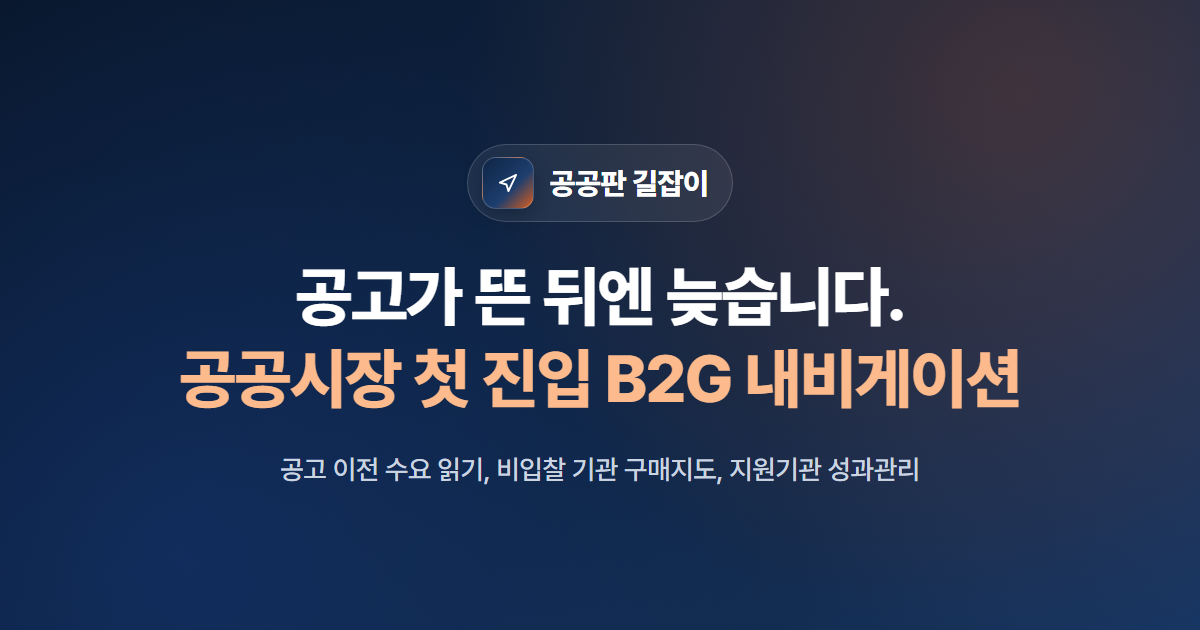
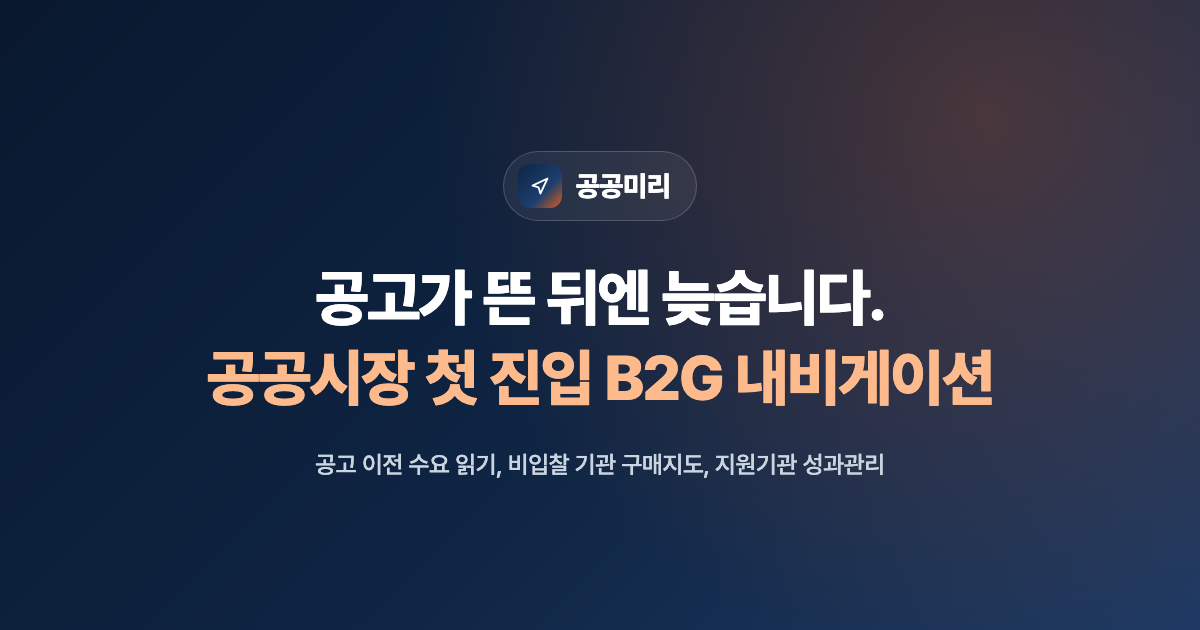
chore: rebrand to 공공미리, anonymize competitor name, and update og-image

Changed region(s): [[0.0308, 0.4222, 0.8633, 1.0], [0.4008, 0.2413, 0.6167, 0.3619], [0.4625, 0.2111, 0.555, 0.2413]]

diff --git a/index.html b/index.html
@@ -3,26 +3,26 @@
 <head>
   <meta charset="UTF-8" />
   <meta name="viewport" content="width=device-width, initial-scale=1.0" />
-  <title>공공판 길잡이 — 공공시장 첫 진입 중소기업을 위한 B2G 내비게이션</title>
-  <meta name="description" content="공고 이전 수요 읽기(발주계획·사전규격), 비입찰 경로(수의계약·시범구매) 기관 구매지도, 기업지원기관 단계·성과 관리까지 연결하는 B2G 시장진입 내비게이션, 공공판 길잡이(가칭)" />
-  <meta name="keywords" content="공공판 길잡이, B2G, 공공조달, 공공시장 진입, 발주계획, 사전규격, 기관 구매지도, 수의계약, 혁신제품 시범구매, 중소기업 판로지원, 테크노파크, 창업보육센터" />
+  <title>공공미리 — 공공시장 첫 진입 중소기업을 위한 B2G 내비게이션</title>
+  <meta name="description" content="공고 이전 수요 읽기(발주계획·사전규격), 비입찰 경로(수의계약·시범구매) 기관 구매지도, 기업지원기관 단계·성과 관리까지 연결하는 B2G 시장진입 내비게이션, 공공미리(가칭)" />
+  <meta name="keywords" content="공공미리, B2G, 공공조달, 공공시장 진입, 발주계획, 사전규격, 기관 구매지도, 수의계약, 혁신제품 시범구매, 중소기업 판로지원, 테크노파크, 창업보육센터" />
   <meta name="robots" content="index, follow" />
-  <meta name="author" content="공공판 길잡이" />
+  <meta name="author" content="공공미리" />
   <meta name="theme-color" content="#0F2544" />
   <link rel="canonical" href="https://jaymunsh.github.io/modoo-demo/" />
   <link rel="icon" type="image/svg+xml" href="./assets/favicon.svg" />
   <meta property="og:type" content="website" />
   <meta property="og:locale" content="ko_KR" />
-  <meta property="og:site_name" content="공공판 길잡이" />
+  <meta property="og:site_name" content="공공미리" />
   <meta property="og:url" content="https://jaymunsh.github.io/modoo-demo/" />
-  <meta property="og:title" content="공공판 길잡이 — 공공시장 첫 진입 중소기업을 위한 B2G 내비게이션" />
+  <meta property="og:title" content="공공미리 — 공공시장 첫 진입 중소기업을 위한 B2G 내비게이션" />
   <meta property="og:description" content="공고가 뜬 뒤엔 늦습니다. 공고 이전 수요 읽기, 비입찰 기관 구매지도, 지원기관 성과관리까지." />
   <meta property="og:image" content="https://jaymunsh.github.io/modoo-demo/assets/og-image.png" />
   <meta property="og:image:width" content="1200" />
   <meta property="og:image:height" content="630" />
-  <meta property="og:image:alt" content="공공판 길잡이 — 공공시장 첫 진입 B2G 내비게이션" />
+  <meta property="og:image:alt" content="공공미리 — 공공시장 첫 진입 B2G 내비게이션" />
   <meta name="twitter:card" content="summary_large_image" />
-  <meta name="twitter:title" content="공공판 길잡이 — B2G 시장진입 내비게이션" />
+  <meta name="twitter:title" content="공공미리 — B2G 시장진입 내비게이션" />
   <meta name="twitter:description" content="공고 이전 수요 읽기, 비입찰 기관 구매지도, 기업지원기관 연계형 B2G 플랫폼" />
   <meta name="twitter:image" content="https://jaymunsh.github.io/modoo-demo/assets/og-image.png" />
   <link rel="stylesheet" href="./css/style.css" />
@@ -30,7 +30,7 @@
   {
     "@context": "https://schema.org",
     "@type": "SoftwareApplication",
-    "name": "공공판 길잡이",
+    "name": "공공미리",
     "url": "https://jaymunsh.github.io/modoo-demo/",
     "applicationCategory": "BusinessApplication",
     "operatingSystem": "Web",
@@ -54,7 +54,7 @@
         "name": "조달청 「공공조달 길잡이」와는 무엇이 다른가요?",
         "acceptedAnswer": {
           "@type": "Answer",
-          "text": "조달청 공공조달 길잡이는 1:1 제도 상담 중심인 반면, 공공판 길잡이는 공고 이전 수요(발주계획·사전규격) 포착, 기관 구매지도, 2주·1개월·3개월 행동 리포트, 지원기관의 소속 기업 단계·성과 관리까지 이어지는 실행형 도구입니다."
+          "text": "조달청 공공조달 길잡이는 1:1 제도 상담 중심인 반면, 공공미리는 공고 이전 수요(발주계획·사전규격) 포착, 기관 구매지도, 2주·1개월·3개월 행동 리포트, 지원기관의 소속 기업 단계·성과 관리까지 이어지는 실행형 도구입니다."
         }
       },
       {
@@ -81,13 +81,13 @@
   <!-- Sticky Header -->
   <header class="site-header">
     <div class="wrap header-inner">
-      <a href="./index.html" class="brand" aria-label="공공판 길잡이 홈">
+      <a href="./index.html" class="brand" aria-label="공공미리 홈">
         <span class="brand-mark" aria-hidden="true">
           <svg width="17" height="17" viewBox="0 0 24 24" fill="none" stroke="currentColor" stroke-width="1.65" stroke-linecap="round" stroke-linejoin="round">
             <path d="M4.5 11.6L19.5 4.5L12.4 19.5L10.6 13.4L4.5 11.6Z"></path>
           </svg>
         </span>
-        <span>공공판 길잡이</span>
+        <span>공공미리</span>
         <span class="brand-sub">MVP</span>
       </a>
 
@@ -180,7 +180,7 @@
       </div>
 
       <!-- Live Product UI Preview -->
-      <div class="hero-preview" aria-label="공공판 길잡이 서비스 미리보기">
+      <div class="hero-preview" aria-label="공공미리 서비스 미리보기">
         <div class="preview-topbar">
           <div class="preview-dots"><i></i><i></i><i></i></div>
           <span>기업용 워크스페이스 예시</span>
@@ -268,7 +268,7 @@
       <div class="timeline-card">
         <div class="zone-bars">
           <div class="zone-bar pre">
-            <span>공공판 길잡이 집중 구간: 규격·예산이 정해지기 전 ‘누구에게·언제·무엇을’ 준비</span>
+            <span>공공미리 집중 구간: 규격·예산이 정해지기 전 ‘누구에게·언제·무엇을’ 준비</span>
             <span class="num" style="opacity:.9;font-size:12.5px;">발주계획 85.6조원(2026)</span>
           </div>
           <div class="zone-bar post">
@@ -537,7 +537,7 @@
       <div class="sec-head">
         <div class="eyebrow eyebrow-blue">Scenario</div>
         <h2 class="sec-title">충남의 환경센서 제조기업이라면,<br />이렇게 첫 공공매출로 연결됩니다</h2>
-        <p class="sec-lead">공공영업 전담인력이 없는 중소기업도 길잡이의 순서대로 움직이면 첫 기관 미팅과 구매상담회 연계까지 도달할 수 있습니다. (설명용 가상 시나리오)</p>
+        <p class="sec-lead">공공영업 전담인력이 없는 중소기업도 공공미리의 순서대로 움직이면 첫 기관 미팅과 구매상담회 연계까지 도달할 수 있습니다. (설명용 가상 시나리오)</p>
       </div>
 
       <div class="scenario-grid">
@@ -572,7 +572,7 @@
         <div class="eyebrow">Differentiation</div>
         <h2 class="sec-title">기존 입찰알림·AI 서류 대행과는<br />출발선과 역할이 다릅니다</h2>
         <p class="sec-lead">
-          공고 이후 서류 작성은 제휴로도 풀 수 있습니다. 공공판 길잡이는 <strong>공고 이전·비입찰 경로·기업 역량화·지원기관 성과관리</strong>라는 비어 있는 구간에 집중합니다.
+          공고 이후 서류 작성은 제휴로도 풀 수 있습니다. 공공미리는 <strong>공고 이전·비입찰 경로·기업 역량화·지원기관 성과관리</strong>라는 비어 있는 구간에 집중합니다.
         </p>
       </div>
 
@@ -584,8 +584,8 @@
                 <th>비교 축</th>
                 <th>입찰정보 알림</th>
                 <th>조달청 공공조달 길잡이</th>
-                <th>AI 공공기회 플랫폼<br /><span style="font-weight:500;font-size:12px;">(에이룸 등)</span></th>
-                <th class="col-hl">공공판 길잡이</th>
+                <th>AI 공공기회 플랫폼<br /><span style="font-weight:500;font-size:12px;">(서류 자동화형)</span></th>
+                <th class="col-hl">공공미리</th>
               </tr>
             </thead>
             <tbody>
@@ -642,15 +642,15 @@
             <circle cx="62" cy="172" r="9" fill="#2563EB" />
             <text x="62" y="196" text-anchor="middle" font-size="11.5" font-weight="700" fill="#1E3A8A">입찰정보 알림</text>
 
-            <!-- 에이룸 -->
+            <!-- AI 공공기회 플랫폼 -->
             <circle cx="122" cy="206" r="9" fill="#2563EB" />
-            <text x="122" y="228" text-anchor="middle" font-size="11.5" font-weight="700" fill="#1E3A8A">에이룸(AROOM)</text>
+            <text x="122" y="228" text-anchor="middle" font-size="11.5" font-weight="700" fill="#1E3A8A">AI 공공기회 플랫폼</text>
             <text x="122" y="241" text-anchor="middle" font-size="10" fill="#64748B">기회탐지·서류 자동화</text>
 
-            <!-- 공공판 길잡이 -->
+            <!-- 공공미리 -->
             <circle cx="268" cy="74" r="14" fill="#D95D1E" />
             <circle cx="268" cy="74" r="21" fill="#D95D1E" fill-opacity="0.16" />
-            <text x="268" y="111" text-anchor="middle" font-size="14" font-weight="800" fill="#D95D1E">공공판 길잡이</text>
+            <text x="268" y="111" text-anchor="middle" font-size="14" font-weight="800" fill="#D95D1E">공공미리</text>
           </svg>
           <p style="margin:8px 0 0;font-size:12.5px;color:var(--muted);">* 공개 안내 기준 사업자 정리. 서류 대행 영역은 제휴 병행 검토.</p>
         </div>
@@ -845,7 +845,7 @@
           </button>
           <div class="faq-a">
             조달청 공공조달 길잡이는 지방청 전담관이 신청 기업을 대상으로 제도 안내 중심의 1:1 상담을 제공합니다.
-            <strong>공공판 길잡이</strong>는 상담에 그치지 않고, 공고 이전 수요(발주계획·사전규격) 포착, 기관 내부 구매결정 경로 지도,
+            <strong>공공미리</strong>는 상담에 그치지 않고, 공고 이전 수요(발주계획·사전규격) 포착, 기관 내부 구매결정 경로 지도,
             2주·1개월·3개월 행동 리포트, 그리고 지원기관의 소속 기업별 단계·성과 관리까지 이어지는 실행형 도구입니다.
             (현재 명칭은 가칭이며 정식 출시 전 상표 검토를 거쳐 확정할 예정입니다.)
           </div>
@@ -914,7 +914,7 @@
             <span class="brand-mark" style="width:28px;height:28px;border-radius:8px;">
               <svg width="14" height="14" viewBox="0 0 24 24" fill="none" stroke="currentColor" stroke-width="1.75" stroke-linecap="round" stroke-linejoin="round"><path d="M4.5 11.6L19.5 4.5L12.4 19.5L10.6 13.4L4.5 11.6Z"></path></svg>
             </span>
-            <span>공공판 길잡이 <span style="font-size:13px;font-weight:500;color:var(--muted);">(가칭)</span></span>
+            <span>공공미리 <span style="font-size:13px;font-weight:500;color:var(--muted);">(가칭)</span></span>
           </div>
           <p style="margin:0;max-width:440px;">공공시장 첫 진입 중소기업을 위한 B2G 시장진입 내비게이션 · 2026년 2차 모두의 창업 프로젝트 (충남 / 멘토기관: 호서대학교)</p>
         </div>
@@ -928,12 +928,12 @@
       </div>
       <div style="display:flex;justify-content:space-between;gap:16px;flex-wrap:wrap;font-size:12.5px;">
         <span>근거 출처: 중소벤처기업부(2025 공공구매 실적), 조달청(2025 통계연보·2026 발주계획·OpenAPI), 국회예산정책처, 국가계약법 시행령 제26조</span>
-        <span>© 2026 공공판 길잡이 MVP Demo.</span>
+        <span>© 2026 공공미리 MVP Demo.</span>
       </div>
 
       <details class="sources-details">
         <summary>
-          <span>사업계획서 근거 자료 출처 전체 보기 (공식 보도자료·통계 21건)</span>
+          <span>사업계획서 근거 자료 출처 전체 보기 (공식 보도자료·통계 20건)</span>
           <span style="font-size:12px;color:var(--accent);">펼치기 ▾</span>
         </summary>
         <ol class="sources-list">
@@ -952,7 +952,6 @@
           <li><a href="https://chungnam.go.kr/sosNet/bbs/B0000357/view.do?nttId=2177294&amp;menuNo=2700008&amp;pageUnit=10&amp;pageIndex=1" target="_blank" rel="noopener noreferrer">충청남도, 「2026년 중소기업제품 공공구매 추진계획」</a></li>
           <li><a href="https://www.pps.go.kr/kor/bbs/list.do?key=01325" target="_blank" rel="noopener noreferrer">조달청, 공공조달 길잡이(지방청 전담관 1:1 상담)</a></li>
           <li><a href="https://www.korea.kr/news/policyNewsView.do?newsId=148970566" target="_blank" rel="noopener noreferrer">정책브리핑, 조달청 공공조달 길잡이 확대 운영</a></li>
-          <li><a href="https://thevc.kr/aroom/products" target="_blank" rel="noopener noreferrer">THE VC, 에이룸(AROOM) 제품 소개</a></li>
           <li><a href="https://www.yeongnam.com/web/view.php?key=20260916023019110" target="_blank" rel="noopener noreferrer">영남일보, 공공에이아이 「은퇴 시니어 노하우를 AI 스킬로」</a></li>
           <li><a href="https://www.data.go.kr/data/15129462/openapi.do" target="_blank" rel="noopener noreferrer">공공데이터포털, 조달청 발주계획현황서비스 OpenAPI</a></li>
           <li><a href="http://www.law.go.kr/LSW/lsLawLinkInfo.do?lsJoLnkSeq=900369532&amp;chrClsCd=010202" target="_blank" rel="noopener noreferrer">국가법령정보센터, 국가계약법 시행령 제26조(수의계약)</a></li>

diff --git a/radar.html b/radar.html
@@ -3,25 +3,25 @@
 <head>
   <meta charset="UTF-8" />
   <meta name="viewport" content="width=device-width, initial-scale=1.0" />
-  <title>수요 레이더 &amp; 기관 구매지도 — 공공판 길잡이</title>
+  <title>수요 레이더 &amp; 기관 구매지도 — 공공미리</title>
   <meta name="description" content="조달청 발주계획·사전규격 수요 레이더와 나라장터 밖 비입찰 경로(수의계약·시범구매) 충남 기관 구매지도를 탐색하세요." />
   <meta name="robots" content="index, follow" />
-  <meta name="author" content="공공판 길잡이" />
+  <meta name="author" content="공공미리" />
   <meta name="theme-color" content="#0F2544" />
   <link rel="canonical" href="https://jaymunsh.github.io/modoo-demo/radar.html" />
   <link rel="icon" type="image/svg+xml" href="./assets/favicon.svg" />
   <meta property="og:type" content="website" />
   <meta property="og:locale" content="ko_KR" />
-  <meta property="og:site_name" content="공공판 길잡이" />
+  <meta property="og:site_name" content="공공미리" />
   <meta property="og:url" content="https://jaymunsh.github.io/modoo-demo/radar.html" />
-  <meta property="og:title" content="수요 레이더 및 충남 기관 구매지도 — 공공판 길잡이" />
+  <meta property="og:title" content="수요 레이더 및 충남 기관 구매지도 — 공공미리" />
   <meta property="og:description" content="사전규격·발주계획·수의계약 기회 탐색과 기관 유형별 의사결정 경로·예산 시기 안내" />
   <meta property="og:image" content="https://jaymunsh.github.io/modoo-demo/assets/og-image.png" />
   <meta property="og:image:width" content="1200" />
   <meta property="og:image:height" content="630" />
-  <meta property="og:image:alt" content="공공판 길잡이 — 수요 레이더 및 기관 구매지도" />
+  <meta property="og:image:alt" content="공공미리 — 수요 레이더 및 기관 구매지도" />
   <meta name="twitter:card" content="summary_large_image" />
-  <meta name="twitter:title" content="수요 레이더 및 충남 기관 구매지도 — 공공판 길잡이" />
+  <meta name="twitter:title" content="수요 레이더 및 충남 기관 구매지도 — 공공미리" />
   <meta name="twitter:description" content="조달청 발주계획·사전규격 탐색과 비입찰 기관 구매지도" />
   <meta name="twitter:image" content="https://jaymunsh.github.io/modoo-demo/assets/og-image.png" />
   <link rel="stylesheet" href="./css/style.css" />
@@ -184,7 +184,7 @@
         <span class="brand-mark" aria-hidden="true">
           <svg width="17" height="17" viewBox="0 0 24 24" fill="none" stroke="currentColor" stroke-width="1.65" stroke-linecap="round" stroke-linejoin="round"><path d="M4.5 11.6L19.5 4.5L12.4 19.5L10.6 13.4L4.5 11.6Z"></path></svg>
         </span>
-        <span>공공판 길잡이</span>
+        <span>공공미리</span>
         <span class="brand-sub">MVP</span>
       </a>
       <nav class="nav-links">
@@ -260,7 +260,7 @@
 
   <footer class="site-footer">
     <div class="wrap" style="display:flex;justify-content:space-between;flex-wrap:wrap;gap:12px;">
-      <span>공공판 길잡이(가칭) · 데이터 출처: 조달청 OpenAPI(발주계획·사전규격) 및 34년 실무 기반 구매지도</span>
+      <span>공공미리(가칭) · 데이터 출처: 조달청 OpenAPI(발주계획·사전규격) 및 34년 실무 기반 구매지도</span>
       <div class="footer-links">
         <a href="./index.html">소개</a>
         <a href="./diagnosis.html">준비도 진단</a>

diff --git a/dashboard.html b/dashboard.html
@@ -3,25 +3,25 @@
 <head>
   <meta charset="UTF-8" />
   <meta name="viewport" content="width=device-width, initial-scale=1.0" />
-  <title>지원기관 단계관리 대시보드 — 공공판 길잡이</title>
+  <title>지원기관 단계관리 대시보드 — 공공미리</title>
   <meta name="description" content="테크노파크·창조경제혁신센터·창업보육센터·지자체를 위한 소속 기업 공공시장 진입 단계(진단→접촉→제안→계약) 성과관리 대시보드" />
   <meta name="robots" content="index, follow" />
-  <meta name="author" content="공공판 길잡이" />
+  <meta name="author" content="공공미리" />
   <meta name="theme-color" content="#0F2544" />
   <link rel="canonical" href="https://jaymunsh.github.io/modoo-demo/dashboard.html" />
   <link rel="icon" type="image/svg+xml" href="./assets/favicon.svg" />
   <meta property="og:type" content="website" />
   <meta property="og:locale" content="ko_KR" />
-  <meta property="og:site_name" content="공공판 길잡이" />
+  <meta property="og:site_name" content="공공미리" />
   <meta property="og:url" content="https://jaymunsh.github.io/modoo-demo/dashboard.html" />
-  <meta property="og:title" content="지원기관 단계관리 대시보드 — 공공판 길잡이" />
+  <meta property="og:title" content="지원기관 단계관리 대시보드 — 공공미리" />
   <meta property="og:description" content="소속 기업별 진단·접촉·제안·계약 퍼널과 사전규격 의견등록·기관 미팅·첫 공공매출 성과 집계" />
   <meta property="og:image" content="https://jaymunsh.github.io/modoo-demo/assets/og-image.png" />
   <meta property="og:image:width" content="1200" />
   <meta property="og:image:height" content="630" />
-  <meta property="og:image:alt" content="공공판 길잡이 — 지원기관 단계관리 대시보드" />
+  <meta property="og:image:alt" content="공공미리 — 지원기관 단계관리 대시보드" />
   <meta name="twitter:card" content="summary_large_image" />
-  <meta name="twitter:title" content="지원기관 단계관리 대시보드 — 공공판 길잡이" />
+  <meta name="twitter:title" content="지원기관 단계관리 대시보드 — 공공미리" />
   <meta name="twitter:description" content="테크노파크·창업보육센터·지자체를 위한 소속 기업 공공판로 성과관리" />
   <meta name="twitter:image" content="https://jaymunsh.github.io/modoo-demo/assets/og-image.png" />
   <link rel="stylesheet" href="./css/style.css" />
@@ -115,7 +115,7 @@
         <span class="brand-mark" aria-hidden="true">
           <svg width="17" height="17" viewBox="0 0 24 24" fill="none" stroke="currentColor" stroke-width="1.65" stroke-linecap="round" stroke-linejoin="round"><path d="M4.5 11.6L19.5 4.5L12.4 19.5L10.6 13.4L4.5 11.6Z"></path></svg>
         </span>
-        <span>공공판 길잡이</span>
+        <span>공공미리</span>
         <span class="brand-sub">지원기관</span>
       </a>
       <nav class="nav-links">
@@ -258,7 +258,7 @@
 
   <footer class="site-footer">
     <div class="wrap" style="display:flex;justify-content:space-between;flex-wrap:wrap;gap:12px;">
-      <span>공공판 길잡이(가칭) · 지원기관 성과관리 대시보드 MVP</span>
+      <span>공공미리(가칭) · 지원기관 성과관리 대시보드 MVP</span>
       <div class="footer-links">
         <a href="./index.html">소개</a>
         <a href="./diagnosis.html">준비도 진단</a>

diff --git a/diagnosis.html b/diagnosis.html
@@ -3,25 +3,25 @@
 <head>
   <meta charset="UTF-8" />
   <meta name="viewport" content="width=device-width, initial-scale=1.0" />
-  <title>진입 준비도 진단 &amp; 행동 리포트 — 공공판 길잡이</title>
+  <title>진입 준비도 진단 &amp; 행동 리포트 — 공공미리</title>
   <meta name="description" content="20문항 규칙 기반 공공시장 진입 준비도 무료 진단과 2주·1개월·3개월 맞춤 행동 리포트를 즉시 확인하세요." />
   <meta name="robots" content="index, follow" />
-  <meta name="author" content="공공판 길잡이" />
+  <meta name="author" content="공공미리" />
   <meta name="theme-color" content="#0F2544" />
   <link rel="canonical" href="https://jaymunsh.github.io/modoo-demo/diagnosis.html" />
   <link rel="icon" type="image/svg+xml" href="./assets/favicon.svg" />
   <meta property="og:type" content="website" />
   <meta property="og:locale" content="ko_KR" />
-  <meta property="og:site_name" content="공공판 길잡이" />
+  <meta property="og:site_name" content="공공미리" />
   <meta property="og:url" content="https://jaymunsh.github.io/modoo-demo/diagnosis.html" />
-  <meta property="og:title" content="공공시장 진입 준비도 무료 진단 — 공공판 길잡이" />
+  <meta property="og:title" content="공공시장 진입 준비도 무료 진단 — 공공미리" />
   <meta property="og:description" content="등록·인증, 납품 실적, 제안 자료, 기관 이해 4개 영역 진단 및 2주·1개월·3개월 행동 리포트" />
   <meta property="og:image" content="https://jaymunsh.github.io/modoo-demo/assets/og-image.png" />
   <meta property="og:image:width" content="1200" />
   <meta property="og:image:height" content="630" />
-  <meta property="og:image:alt" content="공공판 길잡이 — 진입 준비도 무료 진단" />
+  <meta property="og:image:alt" content="공공미리 — 진입 준비도 무료 진단" />
   <meta name="twitter:card" content="summary_large_image" />
-  <meta name="twitter:title" content="공공시장 진입 준비도 무료 진단 — 공공판 길잡이" />
+  <meta name="twitter:title" content="공공시장 진입 준비도 무료 진단 — 공공미리" />
   <meta name="twitter:description" content="20문항 규칙 기반 진단과 2주·1개월·3개월 맞춤 행동 리포트" />
   <meta name="twitter:image" content="https://jaymunsh.github.io/modoo-demo/assets/og-image.png" />
   <link rel="stylesheet" href="./css/style.css" />
@@ -165,7 +165,7 @@
         <span class="brand-mark" aria-hidden="true">
           <svg width="17" height="17" viewBox="0 0 24 24" fill="none" stroke="currentColor" stroke-width="1.65" stroke-linecap="round" stroke-linejoin="round"><path d="M4.5 11.6L19.5 4.5L12.4 19.5L10.6 13.4L4.5 11.6Z"></path></svg>
         </span>
-        <span>공공판 길잡이</span>
+        <span>공공미리</span>
         <span class="brand-sub">MVP</span>
       </a>
       <nav class="nav-links">
@@ -278,7 +278,7 @@
 
   <footer class="site-footer">
     <div class="wrap" style="display:flex;justify-content:space-between;flex-wrap:wrap;gap:12px;">
-      <span>공공판 길잡이(가칭) · 진입 준비도 진단 MVP</span>
+      <span>공공미리(가칭) · 진입 준비도 진단 MVP</span>
       <div class="footer-links">
         <a href="./index.html">소개</a>
         <a href="./radar.html">수요 레이더·구매지도</a>

diff --git a/js/common.js b/js/common.js
@@ -1,5 +1,5 @@
 /* ==========================================================================
-   공공판 길잡이 — Shared Navigation, Modal, FAQ & Interactive Helpers
+   공공미리 — Shared Navigation, Modal, FAQ & Interactive Helpers
    ========================================================================== */
 
 (function () {

diff --git a/css/style.css b/css/style.css
@@ -1,5 +1,5 @@
 /* ==========================================================================
-   공공판 길잡이 — Shared Design System & Stylesheet
+   공공미리 — Shared Design System & Stylesheet
    ========================================================================== */
 
 @font-face {

diff --git a/README.md b/README.md
@@ -1,4 +1,4 @@
-# 공공판 길잡이 (가칭) — MVP Demo
+# 공공미리 (가칭) — MVP Demo
 
 > **공공시장 첫 진입 중소기업을 위한 B2G 시장진입 내비게이션**
 > 공고 이전 수요 읽기 · 비입찰 기관 구매지도 · 기업지원기관 단계·성과 관리
@@ -21,7 +21,7 @@
 
 | 페이지 | 파일 | 주요 기능 |
 |---|---|---|
-| **서비스 소개 (랜딩)** | `index.html` | 공고 이전 vs 이후 타임라인, 4단계 인터랙티브 쇼케이스(간이 자가진단 포함), 충남 환경센서 시나리오, 4축 경쟁 비교표 + 2×2 포지셔닝 매트릭스, 3단 기관 요금, 로드맵, 근거 출처 21건 |
+| **서비스 소개 (랜딩)** | `index.html` | 공고 이전 vs 이후 타임라인, 4단계 인터랙티브 쇼케이스(간이 자가진단 포함), 충남 환경센서 시나리오, 4축 경쟁 비교표 + 2×2 포지셔닝 매트릭스, 3단 기관 요금, 로드맵, 근거 출처 20건 |
 | **진입 준비도 진단** | `diagnosis.html` | 4개 영역(등록·인증 / 납품 실적 / 제안 자료 / 기관 이해) 20문항 체크리스트, 실시간 점수·보완 사항, `2주·1개월·3개월` 행동 리포트 및 PDF 인쇄 |
 | **수요 레이더·구매지도** | `radar.html` | 사전규격·발주계획·수의계약·시범구매 필터 탐색기 + 충남 4개 기관 유형(기초지자체·교육청·지방공단·광역지자체)별 구매결정 경로·예산 시기·수의계약 한도 맵 |
 | **지원기관 대시보드** | `dashboard.html` | 소속 기업 `진단 → 접촉 → 제안 → 계약` 클릭 필터 퍼널, 월간 성과 KPI, 기업별 단계 변경 시 실시간 퍼널·KPI 연동 |
@@ -46,7 +46,8 @@
 │   └── dashboard.js      # 지원기관 퍼널 & 기업 단계 관리
 ├── assets/
 │   ├── favicon.svg       # 경량 SVG 파비콘
-│   ├── og-image.svg      # 소셜 공유용 Open Graph 이미지
+│   ├── og-image.png      # 소셜 공유용 Open Graph 이미지 (1200×630)
+│   ├── og-image.svg      # 소셜 공유용 Open Graph SVG 원본
 │   └── fonts/            # Pretendard 1.3.9 경량 subset woff2 (5종)
 ├── robots.txt
 └── sitemap.xml
